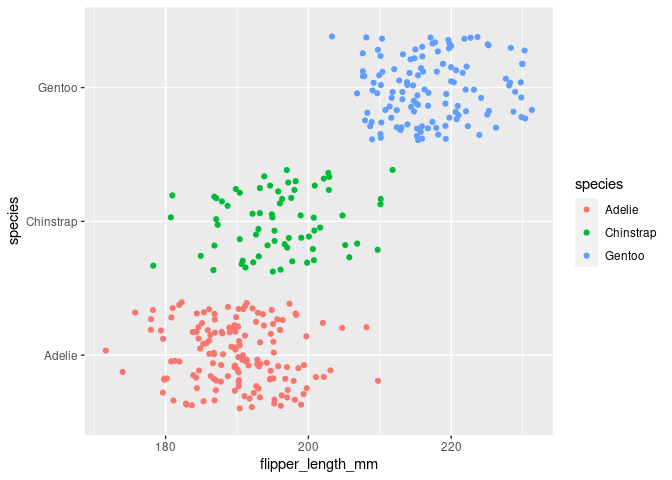
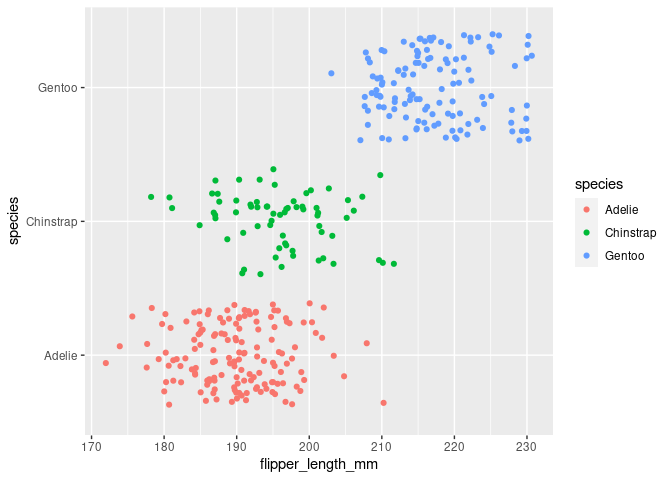
Updating a second time

diff --git a/activity02-ggplot2-intro.md b/activity02-ggplot2-intro.md
@@ -178,7 +178,8 @@ Comment on the strengths of the boxplot compared to the jitterplot and
 vice versa. That is, what can you easily determine by looking at the
 boxplot? What about the jitterplot?
 
-**Response**:
+**Response**: The boxplot lets you see defined summary statistics, while
+a jitterplot lets you see the spread of points visually
 
 Knit, then stage everything listed in your **Git** pane, commit (with a
 meaningful commit message), and push to your GitHub repo. Then, go to
@@ -186,7 +187,8 @@ GitHub and compare/contrast your `activity02-ggplot2-intro.Rmd` and
 `activity02-ggplot2-intro.md` files. Which is easier to read? Which
 looks more professional?
 
-**Response**:
+**Response**: The knit file is easier to read than the file in GitHub,
+as we can see pictures and links and such.
 
 Now, wouldn’t it be nice if we could combine these two plots so that we
 get the benefits of both!?! That is, how can we overlay the jitterplot
@@ -196,10 +198,22 @@ my *hint*:
 -   Re-create the boxplot with color that you did above, then
 -   *Add* another geometry layer for the jitterplot.
 
+``` r
+ggplot(data = penguins, mapping = aes(x = flipper_length_mm, y = species, color = species)) +
+  geom_boxplot() + geom_jitter() 
+```
+
+    ## Warning: Removed 2 rows containing non-finite values (stat_boxplot).
+
+    ## Warning: Removed 2 rows containing missing values (geom_point).
+
+![](activity02-ggplot2-intro_files/figure-gfm/box-jitter-combined-1.png)<!-- -->
+
 Play around with doing the jitterplot laid over the boxplot and the
 boxplot laid over the jitterplot. Which do you prefer? Why?
 
-**Response**:
+**Response**: The jitterplot on top of the boxplot to see all of th
+points
 
 This is getting us closer to one of my favorite plots - the raincloud
 plot. We are not quite ready to create this plot, but we will get there
@@ -213,12 +227,23 @@ default white coloring. In the code chunk below, explore different
 methods to try to create this plot. A hint, all `geom_*` have a
 `mapping` argument.
 
+``` r
+ggplot(data = penguins) +
+  geom_boxplot(mapping = aes(x = flipper_length_mm, y = species)) + geom_jitter(mapping = aes(x = flipper_length_mm, y = species, color = species))
+```
+
+    ## Warning: Removed 2 rows containing non-finite values (stat_boxplot).
+
+    ## Warning: Removed 2 rows containing missing values (geom_point).
+
+![](activity02-ggplot2-intro_files/figure-gfm/jitter-colored-only-1.png)<!-- -->
+
 In the above code chunk, continue to play around with having the
 aesthetics mapped in the different layers. For example, how does having
 all of them mapped in the `ggplot` call compared to having these instead
 mapped in the `geom_boxplot` layer? Comment on what you notice.
 
-**Response**:
+**Response**: Having the aes in the ggplot effects all plots made.
 
 Knit, then stage everything listed in your **Git** pane, commit (with a
 meaningful commit message), and push to your GitHub repo. Go to GitHub
@@ -246,7 +271,32 @@ graphs). Using these three graphs to discuss which of these three
 categorical variables seems to be contributing more to these two peaks
 and explain your reasoning.
 
-**Response**:
+``` r
+ggplot(data=penguins)+ geom_boxplot(mapping=aes(x=bill_length_mm, y=species))
+```
+
+    ## Warning: Removed 2 rows containing non-finite values (stat_boxplot).
+
+![](activity02-ggplot2-intro_files/figure-gfm/bill_length_by_species-1.png)<!-- -->
+
+``` r
+ggplot(data=penguins)+ geom_boxplot(mapping=aes(x=bill_length_mm, y=sex))
+```
+
+    ## Warning: Removed 2 rows containing non-finite values (stat_boxplot).
+
+![](activity02-ggplot2-intro_files/figure-gfm/bill_length_by_sex-1.png)<!-- -->
+
+``` r
+ggplot(data=penguins)+ geom_boxplot(mapping=aes(x=bill_length_mm, y=island))
+```
+
+    ## Warning: Removed 2 rows containing non-finite values (stat_boxplot).
+
+![](activity02-ggplot2-intro_files/figure-gfm/bill_length_by_island-1.png)<!-- -->
+
+**Response**: I think species is the variable that explains the most to
+the two peaks
 
 Knit, then stage everything listed in your **Git** pane, commit (with a
 meaningful commit message), and push to your GitHub repo. Go to GitHub
@@ -260,6 +310,13 @@ exploring scatterplots using `{ggplot2}`.
 
 In the code chunk below, create a scatterplot for the relationship
 between `flipper_length_mm` and `body_mass_g`.
+
+``` r
+library(ggplot2)
+ggplot(data=penguins)+scatter.smooth(x=flipper_length_mm, y=body_mass_g)
+```
+
+    ## Error in xy.coords(x, y, xlabel, ylabel): object 'body_mass_g' not found
 
 Describe any patterns that you notice.
 
